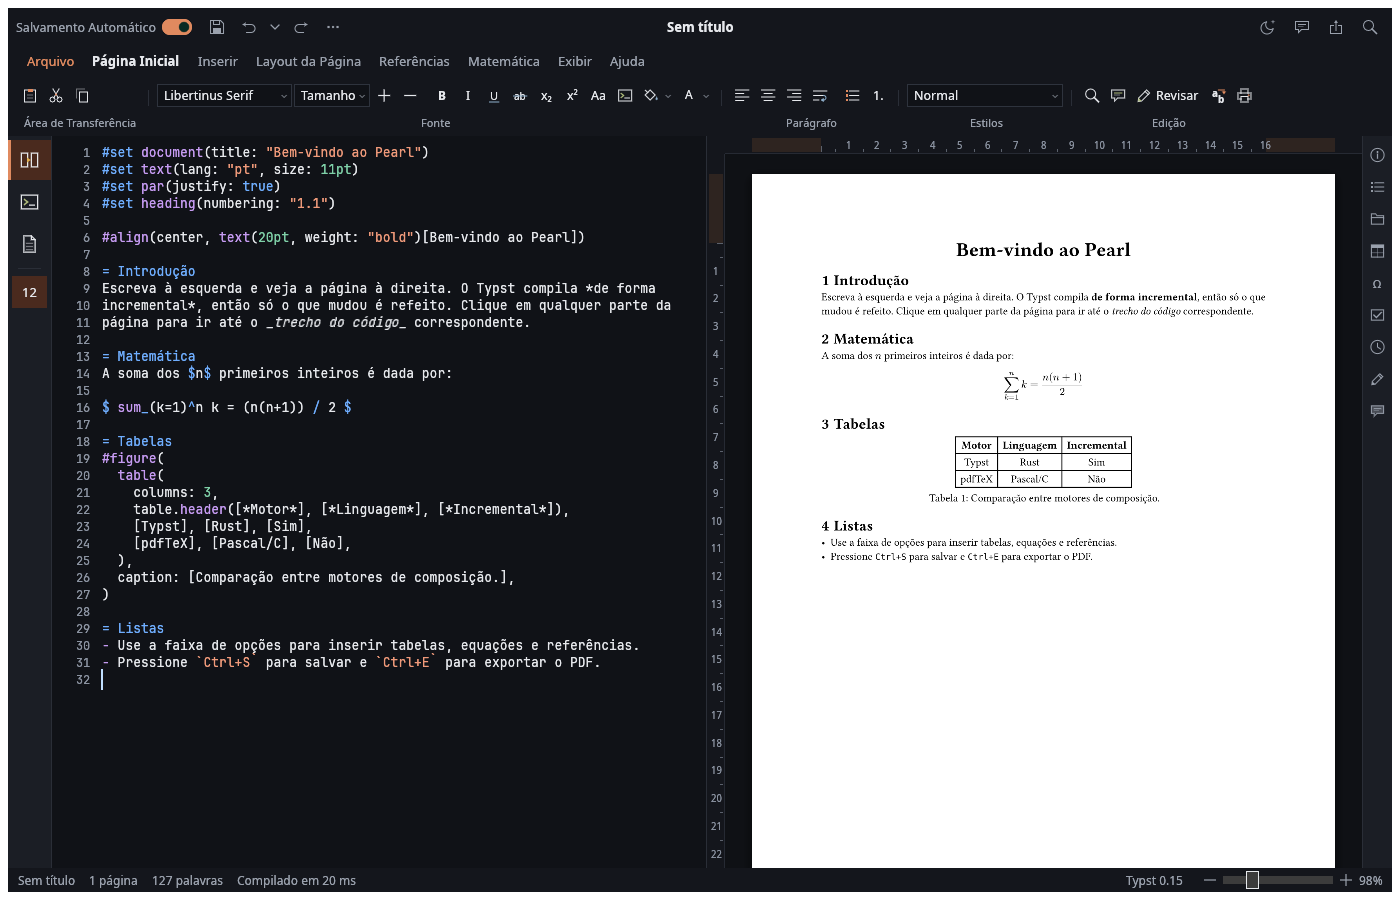
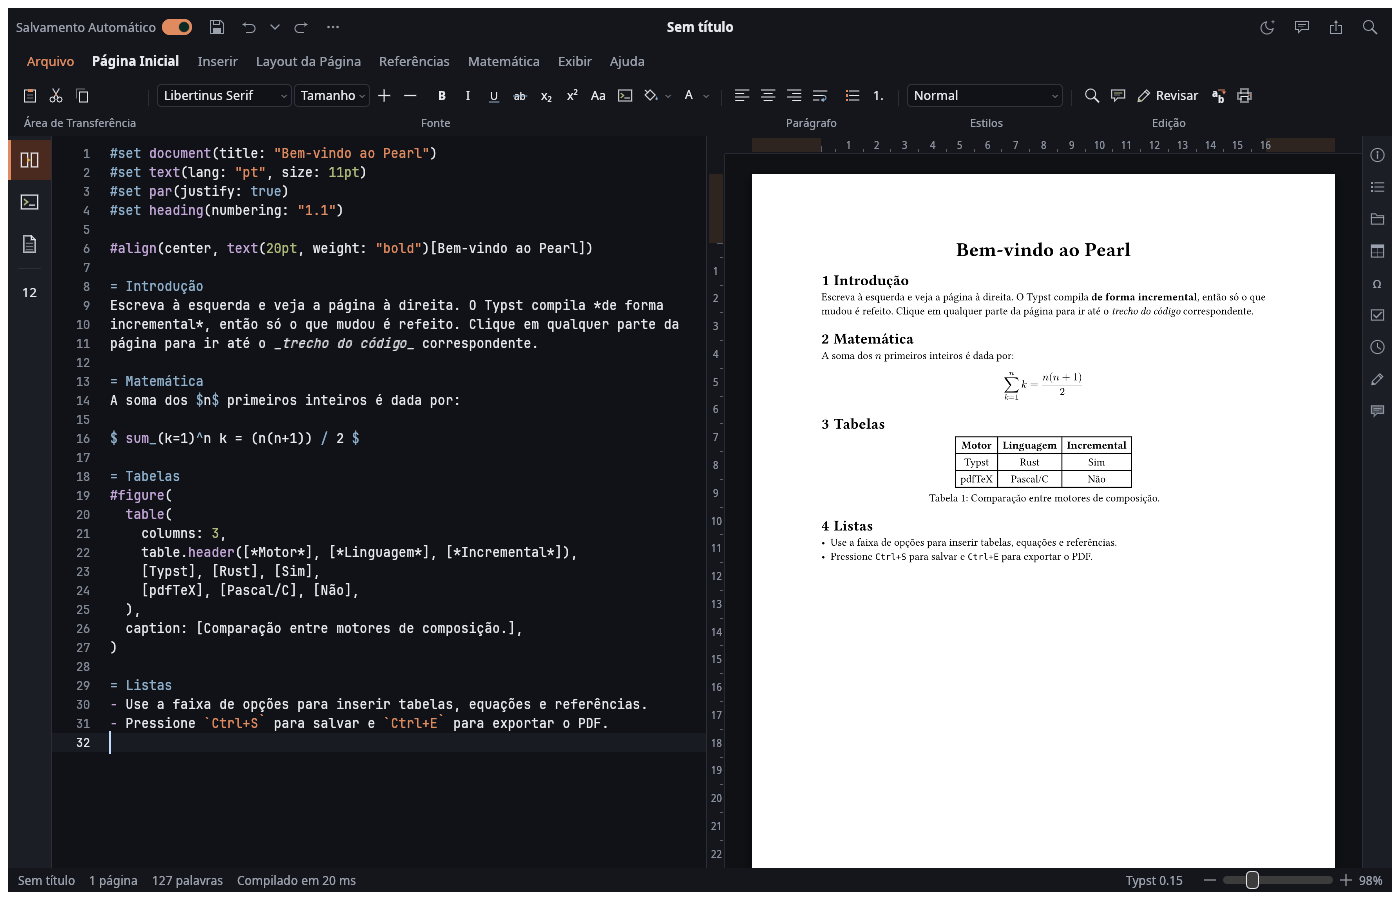
Round the corners of menus, fields, buttons and cards
By the owner's decision, Pearl leaves MK Matrix's square corners here: 4 px
soften the interface without a change of layout. Sheets of paper, and what
runs to the edge of the window, stay square.

Changed region(s): [[0.0, 0.1556, 0.4914, 0.8089]]

diff --git a/src/theme.rs b/src/theme.rs
@@ -6,6 +6,9 @@ use std::sync::Arc;
 
 use egui::{Color32, FontData, FontDefinitions, FontFamily, FontId, Stroke, Visuals};
 
+/// The corners of menus, fields, buttons and cards. Softer than MK Matrix's square ones: Pearl is for
+/// writing in, by the owner's decision. Sheets of paper and what runs to a window's edge stay square.
+pub const RADIUS: u8 = 4;
 pub const UI: &str = "ui";
 pub const UI_BOLD: &str = "ui-bold";
 // The icon set's lettered icons draw in the interface fonts here; Pearl has no cell fonts.
@@ -421,7 +424,7 @@ pub fn set_choice(ctx: &egui::Context, choice: ThemeChoice) {
     });
 }
 
-/// egui's visuals for one palette, with the 2-3 px widget and square window corners of MK Matrix.
+/// egui's visuals for one palette, with Pearl's corners.
 fn visuals(t: &Tokens) -> Visuals {
     let mut v = if t.dark { Visuals::dark() } else { Visuals::light() };
     v.panel_fill = t.window;
@@ -437,13 +440,14 @@ fn visuals(t: &Tokens) -> Visuals {
     v.widgets.hovered.weak_bg_fill = t.hover;
     v.widgets.active.weak_bg_fill = t.pressed;
     v.widgets.inactive.bg_stroke = Stroke::new(1.0, t.input_border);
-    v.widgets.noninteractive.corner_radius = egui::CornerRadius::ZERO;
-    v.widgets.inactive.corner_radius = egui::CornerRadius::ZERO;
-    v.widgets.hovered.corner_radius = egui::CornerRadius::ZERO;
-    v.widgets.active.corner_radius = egui::CornerRadius::ZERO;
-    v.widgets.open.corner_radius = egui::CornerRadius::ZERO;
-    v.window_corner_radius = egui::CornerRadius::ZERO;
-    v.menu_corner_radius = egui::CornerRadius::ZERO;
+    let corners = egui::CornerRadius::same(RADIUS);
+    v.widgets.noninteractive.corner_radius = corners;
+    v.widgets.inactive.corner_radius = corners;
+    v.widgets.hovered.corner_radius = corners;
+    v.widgets.active.corner_radius = corners;
+    v.widgets.open.corner_radius = corners;
+    v.window_corner_radius = corners;
+    v.menu_corner_radius = corners;
     v.popup_shadow = egui::epaint::Shadow { offset: [0, 4], blur: 16, spread: 0, color: t.shadow };
     v
 }

diff --git a/src/widgets.rs b/src/widgets.rs
@@ -46,12 +46,12 @@ pub fn sep(ui: &mut Ui, group: &str) {
 
 fn feedback(ui: &Ui, rect: Rect, resp: &Response, on: bool, t: &Tokens) {
     if resp.is_pointer_button_down_on() || on {
-        ui.painter().rect_filled(rect, 0.0, t.pressed);
+        ui.painter().rect_filled(rect, theme::RADIUS, t.pressed);
     } else if resp.hovered() {
-        ui.painter().rect_filled(rect, 0.0, t.hover);
+        ui.painter().rect_filled(rect, theme::RADIUS, t.hover);
     }
     if on {
-        ui.painter().rect_stroke(rect, 0.0, Stroke::new(1.0, t.separator), StrokeKind::Inside);
+        ui.painter().rect_stroke(rect, theme::RADIUS, Stroke::new(1.0, t.separator), StrokeKind::Inside);
     }
 }
 
@@ -132,7 +132,13 @@ pub fn glyphs(ui: &mut Ui, text: &str, tip: &str) -> Response {
 pub fn field_menu(ui: &mut Ui, text: &str, width: f32, tip: &str, menu: impl FnOnce(&mut Ui)) {
     let t = Tokens::get(ui.ctx());
     let (rect, resp) = ui.allocate_exact_size(vec2(width, 23.0), Sense::click());
-    ui.painter().rect(rect, 0.0, if resp.hovered() { t.field_hover } else { t.input_bg }, Stroke::new(1.0, t.input_border), StrokeKind::Inside);
+    ui.painter().rect(
+        rect,
+        theme::RADIUS,
+        if resp.hovered() { t.field_hover } else { t.input_bg },
+        Stroke::new(1.0, t.input_border),
+        StrokeKind::Inside,
+    );
     let area = Rect::from_min_max(rect.min, pos2(rect.right() - 14.0, rect.bottom()));
     ui.painter().with_clip_rect(area.intersect(ui.clip_rect())).text(
         pos2(area.left() + 7.0, area.center().y),

diff --git a/src/colour_picker.rs b/src/colour_picker.rs
@@ -363,11 +363,11 @@ fn swatch(ui: &mut Ui, colour: Colour, on: bool, t: &Tokens) -> Response {
     if colour.a < 255 {
         checkers(ui, rect);
     }
-    ui.painter().rect_filled(rect, 0.0, colour.color32());
+    ui.painter().rect_filled(rect, 2.0, colour.color32());
     // The light ones must not melt into the menu.
-    ui.painter().rect_stroke(rect, 0.0, Stroke::new(1.0, Color32::from_black_alpha(36)), StrokeKind::Inside);
+    ui.painter().rect_stroke(rect, 2.0, Stroke::new(1.0, Color32::from_black_alpha(36)), StrokeKind::Inside);
     if resp.hovered() || on {
-        ui.painter().rect_stroke(rect.expand(1.5), 0.0, Stroke::new(1.5, if on { t.accent } else { t.text }), StrokeKind::Outside);
+        ui.painter().rect_stroke(rect.expand(1.5), 3.0, Stroke::new(1.5, if on { t.accent } else { t.text }), StrokeKind::Outside);
     }
     resp.on_hover_text(hex)
 }

diff --git a/src/app.rs b/src/app.rs
@@ -3079,7 +3079,7 @@ impl App {
         resp.widget_info(|| egui::WidgetInfo::selected(egui::Role::CheckBox, true, shown, tx("line-numbers")));
         // A switch, not a view: only the view in use wears the accent here.
         if resp.hovered() {
-            ui.painter().rect_filled(slot.shrink(4.0), 0.0, t.hover);
+            ui.painter().rect_filled(slot.shrink(4.0), theme::RADIUS, t.hover);
         }
         ui.painter().text(slot.center(), egui::Align2::CENTER_CENTER, "12", theme::ui_font(13.0), if shown { t.text } else { t.text_disabled });
         if resp.on_hover_text(if shown { tx("hide-line-numbers") } else { tx("show-line-numbers") }).clicked() {

diff --git a/src/app/backstage.rs b/src/app/backstage.rs
@@ -88,7 +88,7 @@ fn tile(ui: &mut Ui, label: &str, kind: Option<usize>) -> egui::Response {
     resp.widget_info(|| egui::WidgetInfo::labeled(egui::Role::Button, true, label));
     let p = ui.painter();
     let thumb = Rect::from_min_size(rect.min, vec2(rect.width(), 112.0));
-    p.rect_filled(thumb, 0.0, if resp.hovered() { t.hover } else { t.desk });
+    p.rect_filled(thumb, theme::RADIUS, if resp.hovered() { t.hover } else { t.desk });
     let page = Rect::from_center_size(thumb.center(), vec2(72.0, 96.0));
     theme::paint_sheet_shadow(p, page, &t);
     p.rect_filled(page, 0.0, Color32::WHITE);

diff --git a/CHANGELOG.md b/CHANGELOG.md
@@ -16,6 +16,7 @@ Every release of Pearl, newest first, in the spirit of
 - The time worked on each document, in the Details pane: the total and the latest days, across saves and days. Only active time counts, and it stays on this computer.
 - A colour picker for text and highlight: a palette with tints and shades, the latest colours used, and any other colour by a square, hue, opacity, hex code or RGB numbers. The ribbon's button shows the colour last used.
 - A calmer editor: more air between lines, quieter line numbers, the caret's line marked, and source colours that go with the rest of the interface.
+- Softly rounded corners on menus, fields, buttons and cards.
 - Rulers in centimetres around the pages, with the margins shaded.
 - Recovery: text left unsaved by a crash is offered back when Pearl opens again.
 - Spell checking in Brazilian Portuguese: misspelt words underlined, and a right click for suggestions,

diff --git a/docs/roadmap.md b/docs/roadmap.md
@@ -12,6 +12,7 @@ Pearl's plan and progress log. Each section says what is done and its **Next:** 
 - *Done:* several carets at once, as in VS Code.
 - *Done:* the time worked on each document.
 - *Done:* a colour picker for text and highlight.
+- *Done:* a calmer editor, and corners of 4 px by the owner's decision, where MK Matrix has square ones.
 - *Done:* a refinement of the look: the pages' shadow and desk, an icon strip, the File view's sheets, the ribbon's fields.
 - *Done:* ready-made formulas, with previews and a search.
 - *Done:* letterhead and watermark, with a live preview and the opacity of a picture.
